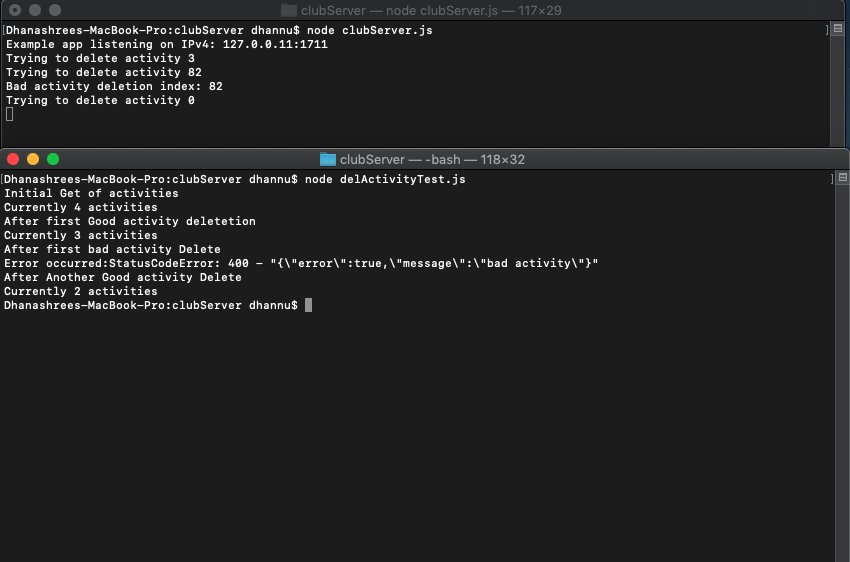
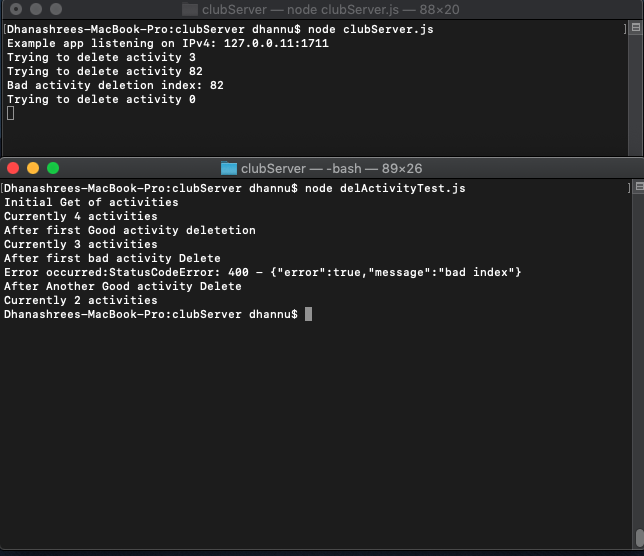
changes in answers

Changed region(s): [[0.0, 0.0, 1.0, 1.0], [0.7453, 0.4586, 0.8075, 0.5198]]

diff --git a/clubServer/clubServer.js b/clubServer/clubServer.js
@@ -4,7 +4,7 @@ const app = express();
 let activityJson = require('./activities.json');
 
 let errorResponse = {"error": true, "message":"bad activity"}
-let errorResponse2 = {"error": true, "message":"bad activity"}
+let errorResponse2 = {"error": true, "message":"bad index"}
 
 app.get('/activities', function (req, res) {
     //res.send(`${JSON.stringify(activityJson)}`);
@@ -13,37 +13,45 @@ app.get('/activities', function (req, res) {
 
 app.post('/activities', express.json({ limit: "44b"}), function(req, res) {
   if(Array.isArray(req.body)) {
-    req.body.map(x => activityJson.push(x))
+    req.body.map(x => activityJson.push(x));
   } else {
-   activityJson.push(req.body)
+   activityJson.push(req.body);
  }
  console.log(`path /addThing received: ${JSON.stringify(req.body)}`);
- res.json(activityJson)
+ res.json(activityJson);
 
 });
 
 app.delete('/activities/:i', function(req, res) {
- 
- let id = req.params.i;
- console.log("Trying to delete activity "+ id);
+
+ let id = req.params.i
+ console.log("Trying to delete activity "+ id)
  if (id >= activityJson.length) {
-   console.log("Bad activity deletion index: "+ id);
-  res.status(400).send(errorResponse2);
+   console.log("Bad activity deletion index: "+ id)
+   next()
  } else {
- activityJson.splice(id, 1);
- res.json(activityJson);
+  activityJson.splice(id, 1)
+  res.json(activityJson)
 }
 
 });
 
+app.use(function deleteErrorHandling(err, req, res, next) {
+  if(req.route.methods.delete == true){
+    res.status(400).send(errorResponse2)
+  } else {
+    next(err)
+  }
+
+})
 
 app.use(function activityErrors(err, req, res, next) {
     // prepare and send error response here, i.e.,
     // set an error code and send JSON message
     res.status(413).send(errorResponse)
-    console.log(JSON.stringify(err));
-    return;
-  })
+    console.log(JSON.stringify(err))
+    return
+  });
 
 host = '127.0.0.11';
 port = '1711';

diff --git a/clubServer/delActivityTest.js b/clubServer/delActivityTest.js
@@ -14,7 +14,8 @@ let deleteCall = {
 let badDeleteCall = {
     url: 'http://127.0.0.11:1711/activities/82',
     method: 'DELETE', // What does this do?
-    resolveWithFullResponse: false
+    resolveWithFullResponse: false,
+    json:true
 };
 
 let anotherDeleteCall = {

diff --git a/README.md b/README.md
@@ -5,7 +5,7 @@
 
 ## Question 1
 ### (a)
-* Post HTTP method is used in the request
+* GET HTTP method is used in the request
 
 * HTTP response status code indicate whether a specific HTTP request has been successfully completed. For example: 200 OK (Successful response)
 
@@ -13,49 +13,65 @@
 
 ### (b)
 List the request headers and their values here (copy and paste)
-```
-POST /events/1/232bf20b67?a=25577677&v=1167.2a4546b&to=M1NbN0oCDxFYU0JaXAoZahdKFhUReFNCWlwKGVsPWQAKAFZRRFcdE1NbAkgTEkxbXFdQWAZZWBFcTQAXTVhTXUcNVVgXUQwPTHVfUVpdJVVNClcN&rst=10976&ref=https://bb.csueastbay.edu/ HTTP/1.1
-Host: bam.nr-data.net
+```HTTP
+GET / HTTP/1.1
+Host: bb.csueastbay.edu
 Connection: keep-alive
-Content-Length: 99
-Sec-Fetch-Dest: empty
+Cache-Control: max-age=0
+Upgrade-Insecure-Requests: 1
 User-Agent: Mozilla/5.0 (Macintosh; Intel Mac OS X 10_14_6) AppleWebKit/537.36 (KHTML, like Gecko) Chrome/80.0.3987.149 Safari/537.36
-content-type: text/plain
-Accept: */*
-Origin: https://bb.csueastbay.edu
-Sec-Fetch-Site: cross-site
-Sec-Fetch-Mode: cors
-Referer: https://bb.csueastbay.edu/
+Sec-Fetch-Dest: document
+Accept: text/html,application/xhtml+xml,application/xml;q=0.9,image/webp,image/apng,*/*;q=0.8,application/signed-exchange;v=b3;q=0.9
+Sec-Fetch-Site: none
+Sec-Fetch-Mode: navigate
+Sec-Fetch-User: ?1
 Accept-Encoding: gzip, deflate, br
 Accept-Language: en-US,en;q=0.9
-Cookie: JSESSIONID=b1687da527d0c0db
+Cookie: _ga=GA1.2.1475441467.1582606494; __utmc=208548673; __utmz=208548673.1584980877.72.13.utmcsr=google|utmccn=(organic)|utmcmd=organic|utmctr=(not%20provided); wl_auth=client_id=00000000481AF445&status=unchecked; AWSELB=D3570BC914533D9ACC5FBEA2A258730F699E691A0ABC1ED62EDAD5455CC53097809BAEF278DDBFB83587B538B0F877AE04C46F9E789B3AC2D2E04D2483546BB148F69A866F; AWSELBCORS=D3570BC914533D9ACC5FBEA2A258730F699E691A0ABC1ED62EDAD5455CC53097809BAEF278DDBFB83587B538B0F877AE04C46F9E789B3AC2D2E04D2483546BB148F69A866F; __utma=208548673.1205622182.1582597512.1586051361.1586111680.95; __utmt=1; __utmb=208548673.4.10.1586111680; JSESSIONID=B315F5A6B3027F676184D00C9C5BA27C; BbRouter=expires:1586114235,id:4A08CE40AF44591E62F374FDEE9AA1AD,signature:bc3c2389a715228c3eb35b3a399397d57dadcce0c0e226305096f75eee82e57d,site:aefdf5db-8c6a-4e8e-8bf7-fb9f1f4dcdf0,v:2,xsrf:6d7783b7-0629-4249-8ff5-eb008e797da7
 ```
 
 ### (c)
 List the response headers and their values here (copy and paste)
-```
-Access-Control-Allow-Credentials: true
-Access-Control-Allow-Origin: https://bb.csueastbay.edu
-Content-Length: 24
-Content-Type: image/gif
+``` HTTP
+HTTP/1.1 200
+Cache-Control: private
+Cache-Control: max-age=0
+Cache-Control: no-store
+Cache-Control: must-revalidate
+Content-Encoding: gzip
+Content-Language: en-US
+Content-Security-Policy: frame-ancestors 'self'
+Content-Type: text/html;charset=UTF-8
+Date: Sun, 05 Apr 2020 18:47:17 GMT
+Expires: Fri, 05 Apr 2019 18:47:17 GMT
+Last-Modified: Wed, 05 Apr 2000 18:47:17 GMT
+P3P: CP="CAO PSA OUR"
+Pragma: private
+Server: openresty/1.9.3.1
+Set-Cookie: BbRouter=expires:1586114237,id:4A08CE40AF44591E62F374FDEE9AA1AD,signature:f981fb7a95ec52cabe22f8a611a097a06cf56e8ced09f7055523d28da5941ce0,site:aefdf5db-8c6a-4e8e-8bf7-fb9f1f4dcdf0,v:2,xsrf:6d7783b7-0629-4249-8ff5-eb008e797da7; Path=/; Secure; HttpOnly
+vary: accept-encoding
+X-Blackboard-appserver: ip-10-145-95-241.ec2.internal
+X-Blackboard-product: Blackboard Learn &#8482; 3800.6.0-rel.15+a3bf299
+X-Frame-Options: SAMEORIGIN
+Content-Length: 18455
+Connection: keep-alive
 ```
 
 ### (d)
 
-What server is BlackBoard based on?
+Server: openresty/1.9.3.1
 
-Are any cookies set? If so what are they.
+yes,
+Set-Cookie: BbRouter=expires:1586113700,id:4A08CE40AF44591E62F374FDEE9AA1AD,signature:d69f8ee0a365a7ed629389be6c582c72d1a0e8543ca8f2805207e7a854b9ff12,site:aefdf5db-8c6a-4e8e-8bf7-fb9f1f4dcdf0,v:2,xsrf:6d7783b7-0629-4249-8ff5-eb008e797da7; Path=/; Secure; HttpOnly
 
 
 ### (e)
 protocol : https, http
 domain : developer.mozilla.org, www.google.com, 
 port :8282
-path : static/index.html, en-US/docs/Web/JavaScript/Guide/Grammar_and_Types, search
+path : static/index.html, en-US/docs/Web/JavaScript/Guide/Grammar_and_Types, /search
 query : ?q=gaia+mission&rlz=1CYPO_enUS751
 fragment : #Comments
-
-### (f)
 
 ## Question 2 
 
@@ -123,6 +139,7 @@ console.log(`Example app listening on IPv4: ${host}:${port}`);
 
 ### (b)
 ![ScreenShot](images/ScreenShot61.png)
+
 ```getActivityTest.js
 const rp = require('request-promise-native');
 let site = {
@@ -152,6 +169,44 @@ app.post('/activities', express.json(), function(req, res) {
 });
 ```
 ### (b)
+```addActivityTest.js
+const rp = require('request-promise-native');
+
+let getCall = {
+    url: 'http://127.0.0.11:1711/activities',
+    method: 'GET', // What does this do?
+    resolveWithFullResponse: false
+};
+
+
+let postCall = {
+    url: 'http://127.0.0.11:1711/activities',
+    method: 'POST', // What does this do?
+    json: true,
+    body: {
+      name: "Jam sesion",
+      dates: "August 15th"
+  }
+};
+
+rp(getCall).then(res => {
+  let parsedJsonactivity = JSON.parse(res)
+  console.log("Currently "+parsedJsonactivity.length+" activities");
+  let count = 1
+  parsedJsonactivity.map(activity => {
+    console.log("activity "+count+" Name:"+activity.name+"; Dates:"+activity.dates);
+    count++;
+  })
+  return rp(postCall)
+}).then(res => {
+console.log("Currently "+res.length+" activities");
+let count = 1;
+ res.map(activity => {
+    console.log("activity "+count+" Name:"+activity.name+"; Dates:"+activity.dates);
+    count++;
+  })
+})
+```
 ![ScreenShot](images/ScreenShot62.png)
 
 ### (c)
@@ -171,7 +226,7 @@ app.use(function activityErrors(err, req, res, next) {
 ![ScreenShot](images/ScreenShot63.png)
 
 ``` addActivityTest.js
-rp(getCall).then(res => {
+ rp(getCall).then(res => {
 	console.log("Initial Get of activities");
 	let parsedJsonactivity = JSON.parse(res)
 	console.log("Currently "+parsedJsonactivity.length+" activities");
@@ -208,18 +263,25 @@ console.log("Currently "+res.length+" activities");
 code after delete interface
 ``` codeServer.js
 app.delete('/activities/:i', function(req, res) {
- 
- let id = req.params.i;
- console.log("Trying to delete activity "+ id);
+
+ let id = req.params.i
+ console.log("Trying to delete activity "+ id)
  if (id >= activityJson.length) {
-   console.log("Bad activity deletion index: "+ id);
-  res.status(400).send(errorResponse2);
+   console.log("Bad activity deletion index: "+ id)
+   next()
  } else {
- activityJson.splice(id, 1);
- res.json(activityJson);
+  activityJson.splice(id, 1)
+  res.json(activityJson)
 }
 
 });
+
+app.use(function deleteErrorHandling(err, req, res, next) {
+  if(req.route.methods.delete == true){
+    res.status(400).send(errorResponse2)
+  } else {
+    next(err)
+  }
 
 ```
 ### (b)
